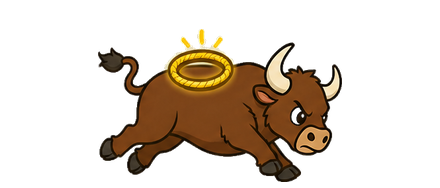
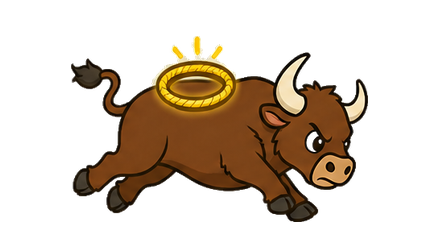
Keep Stampede Bull size steady and fix ninja doubles on slopes
Normalize boss run frames to standing painted mass and stop wall/lasso
squash so the bull no longer pops size mid-fight. Ninjas drop the leftover
scene Sprite2D (one body only) and snap their feet to the walk surface each
chase step so dune crusts raise and lower them properly.

Changed region(s): [[0.1477, 0.133, 0.8568, 0.984]]

diff --git a/tools/build_bull_frames.py b/tools/build_bull_frames.py
@@ -28,8 +28,8 @@ TRAIL_BASELINE = 150
 TRAIL_BODY_H = 118
 # Stampede Bull: roomy canvas so the full stride (tail → horns) and ring glow
 # keep a clear margin. Body height matches across stun idle and run frames.
-BOSS_CANVAS = (440, 188)
-BOSS_BASELINE = 182
+BOSS_CANVAS = (440, 230)
+BOSS_BASELINE = 222
 BOSS_BODY_H = 164
 # Columns within this of another peak are that bull's exclusive core — flood
 # fill may spill past the valley midline for a tail tip, but not into a neighbour's body.
@@ -44,6 +44,38 @@ def _frame(
 	baseline: int,
 ) -> Image.Image:
 	return frame_sprite(img, canvas=canvas, target_h=target_h, baseline=baseline)
+
+
+def _opaque_area(im: Image.Image) -> int:
+	return sum(1 for value in im.split()[3].get_flattened_data() if value > 16)
+
+
+def _frame_to_opaque_area(img: Image.Image, target_area: int) -> Image.Image:
+	"""Scale a pose until its painted mass matches standing.
+
+	Matching canvas or bounding-box height is insufficient for the boss strip:
+	tucked-leg poses contain much less painted bull and visibly shrink. Opaque
+	area tracks apparent character size while preserving each pose's aspect.
+	"""
+	target_h = BOSS_BODY_H
+	framed = _frame(
+		img,
+		canvas=BOSS_CANVAS,
+		target_h=target_h,
+		baseline=BOSS_BASELINE,
+	)
+	for _iteration in range(3):
+		current_area = _opaque_area(framed)
+		if current_area <= 0:
+			break
+		target_h = max(1, round(target_h * (target_area / current_area) ** 0.5))
+		framed = _frame(
+			img,
+			canvas=BOSS_CANVAS,
+			target_h=target_h,
+			baseline=BOSS_BASELINE,
+		)
+	return framed
 
 
 def _column_density(im: Image.Image, *, win: int = 8) -> list[float]:
@@ -149,25 +181,16 @@ def _save_trail_strip(src_name: str, out_prefix: str) -> None:
 		print("wrote", path.relative_to(ROOT))
 
 
-def _save_boss_run_frames() -> None:
+def _save_boss_run_frames(target_area: int) -> None:
 	keyed = cutout(str(SRC / "run_strip_boss.png"), level=200, sat=25)
 	figures = _extract_boss_figures(keyed)
-	# One shared scale from the tallest stride so the drawn bob survives and every
-	# frame matches the standing body height.
-	scale = BOSS_BODY_H / max(fig.size[1] for fig in figures)
 	for i, fig in enumerate(figures):
-		target_h = max(1, round(fig.size[1] * scale))
 		path = OUT / f"boss_stampede_bull_run_{i}.png"
-		_frame(
-			fig,
-			canvas=BOSS_CANVAS,
-			target_h=target_h,
-			baseline=BOSS_BASELINE,
-		).save(path)
+		_frame_to_opaque_area(fig, target_area).save(path)
 		print("wrote", path.relative_to(ROOT))
 
 
-def _reframe_boss_standing() -> None:
+def _reframe_boss_standing() -> int:
 	"""Pad the existing stun/idle art onto the roomy canvas at the run body height."""
 	stand_path = OUT / "boss_stampede_bull.png"
 	if not stand_path.exists():
@@ -177,13 +200,15 @@ def _reframe_boss_standing() -> None:
 	bbox = stand.split()[3].getbbox()
 	if bbox:
 		stand = stand.crop(bbox)
-	_frame(
+	framed = _frame(
 		stand,
 		canvas=BOSS_CANVAS,
 		target_h=BOSS_BODY_H,
 		baseline=BOSS_BASELINE,
-	).save(stand_path)
+	)
+	framed.save(stand_path)
 	print("wrote", stand_path.relative_to(ROOT), "(reframed)")
+	return _opaque_area(framed)
 
 
 def build() -> None:
@@ -204,8 +229,8 @@ def build() -> None:
 	print("wrote", stand_path.relative_to(ROOT))
 
 	_save_trail_strip("run_strip_no_ring.png", "trail_bull")
-	_reframe_boss_standing()
-	_save_boss_run_frames()
+	boss_target_area = _reframe_boss_standing()
+	_save_boss_run_frames(boss_target_area)
 
 
 if __name__ == "__main__":

diff --git a/README.md b/README.md
@@ -127,9 +127,9 @@ Agents **must** honor these when editing levels or trail systems:
 - User-facing copy: wide trail gaps = **canyon**; fixed 128×64 dirt holes = **pit** (legacy node names like `Pit3` on scaled canyon hazards may remain internally).
 - **Pits:** workshop **Hazards** stamp; exact `pit.png` size; dirt-only placement; same fall/respawn/life rules as canyons (Bubble Shield does not save pit falls).
 - Bandits: downward jump stomp from above / lasso tie; any other contact hurts; **turn at plank edges** (do not walk off).
-- **Trail bulls / cave lizards:** trail bulls use ring-free standing art plus a short run cycle while charging (cave lizards keep lizard art); **charge toward the cowboy** when he is nearby and **keep that heading** until a **pit or canyon lip** (then turn inland and keep running) — they do not retarget every frame, so they no longer look like they flee first; when the cowboy **jumps over** them on the same bank they keep going about **5 cm** before turning to chase; workshop/campaign placement keeps them on **solid dirt only** (never on a pit mouth or canyon stamp); lasso or head stomp plays the full boss tying sequence (rope coils → legs bound → tip over → lying on the floor at the same on-screen size); side contact hurts. Stampede Bull boss keeps the painted back ring and uses its own run frames while charging — framed on a roomy 440×188 canvas (clear margin around horns, tail, and ring glow) at the same body height as the stun/idle standing art so he does not shrink mid-charge or clip against the texture edge.
-- **Ninjas:** handcrafted **chibi cel-shaded sprites** in the same big-head / thick-ink style as the bandit (`tools/build_ninja_frames.py`: hooded head, red headband + obi, navy gi, 64×80); workshop stamp marks an **ambush anchor** — when the cowboy enters range, the ninja **appears ~12 columns (480 px) in front** of him, runs in with a **sword slash** on reach, **jumps pits and canyons** toward the cowboy (crouch + airborne jump frames), and throws hand-drawn **shuriken** at winged flyers; lasso or head stomp ties with a unique bound rope pose; **camp respawn** cancels appear/chase/jump and hides him back at the stamp post (unless already tied at that camp).
-- **Ninja jump height matches the cowboy's own apex** (derived from the live `Player.jump_velocity` / `Player.gravity`, not a hand-tuned constant), so a ninja can **hop up onto any plank / ledge the cowboy can reach** and step back down off a lip instead of stalling on it. Do not regress this to a fixed jump height that leaves planks unreachable.
+- **Trail bulls / cave lizards:** trail bulls use ring-free standing art plus a short run cycle while charging (cave lizards keep lizard art); **charge toward the cowboy** when he is nearby and **keep that heading** until a **pit or canyon lip** (then turn inland and keep running) — they do not retarget every frame, so they no longer look like they flee first; when the cowboy **jumps over** them on the same bank they keep going about **5 cm** before turning to chase; workshop/campaign placement keeps them on **solid dirt only** (never on a pit mouth or canyon stamp); lasso or head stomp plays the full boss tying sequence (rope coils → legs bound → tip over → lying on the floor at the same on-screen size); side contact hurts. Stampede Bull boss keeps the painted back ring and uses its own run frames while charging — framed on a roomy 440×230 canvas (clear margin around horns, tail, and ring glow), with each run pose normalized to the standing pose's visible painted mass so tucked strides do not shrink. Wall and lasso reactions recoil/rotate without scaling the bull.
+- **Ninjas:** handcrafted **chibi cel-shaded sprites** in the same big-head / thick-ink style as the bandit (`tools/build_ninja_frames.py`: hooded head, red headband + obi, navy gi, 64×80); workshop stamp marks an **ambush anchor** — when the cowboy enters range, the ninja **appears ~12 columns (480 px) in front** of him, runs in with a **sword slash** on reach, **jumps pits and canyons** toward the cowboy (crouch + airborne jump frames), and throws hand-drawn **shuriken** at winged flyers; lasso or head stomp ties with a unique bound rope pose; **camp respawn** cancels appear/chase/jump and hides him back at the stamp post (unless already tied at that camp). Only one animated body is drawn (`NinjaSprite`) — never leave a second scene `Sprite2D` behind, or he can look doubled with each half facing the other way.
+- **Ninja jump height matches the cowboy's own apex** (derived from the live `Player.jump_velocity` / `Player.gravity`, not a hand-tuned constant), so a ninja can **hop up onto any plank / ledge the cowboy can reach** and step back down off a lip instead of stalling on it. Do not regress this to a fixed jump height that leaves planks unreachable. While chasing on dirt he **snaps his feet to the walk surface each frame**, so dune slopes raise and lower him with the crust instead of skimming a flat Y.
 - **No cactus inside canyon mouths** or on hand-painted rim bands (keep clear of the rim body past the gap).
 - **Rattlesnakes / scorpions:** floor hazards that raise then bite/sting; desert campaign trails use **rattlesnakes** (workshop can still stamp a desert scorpion); cave remaps the rattlesnake stamp to scorpion art.
 - **No rattlesnake directly in front of** (approaching) a canyon mouth.
